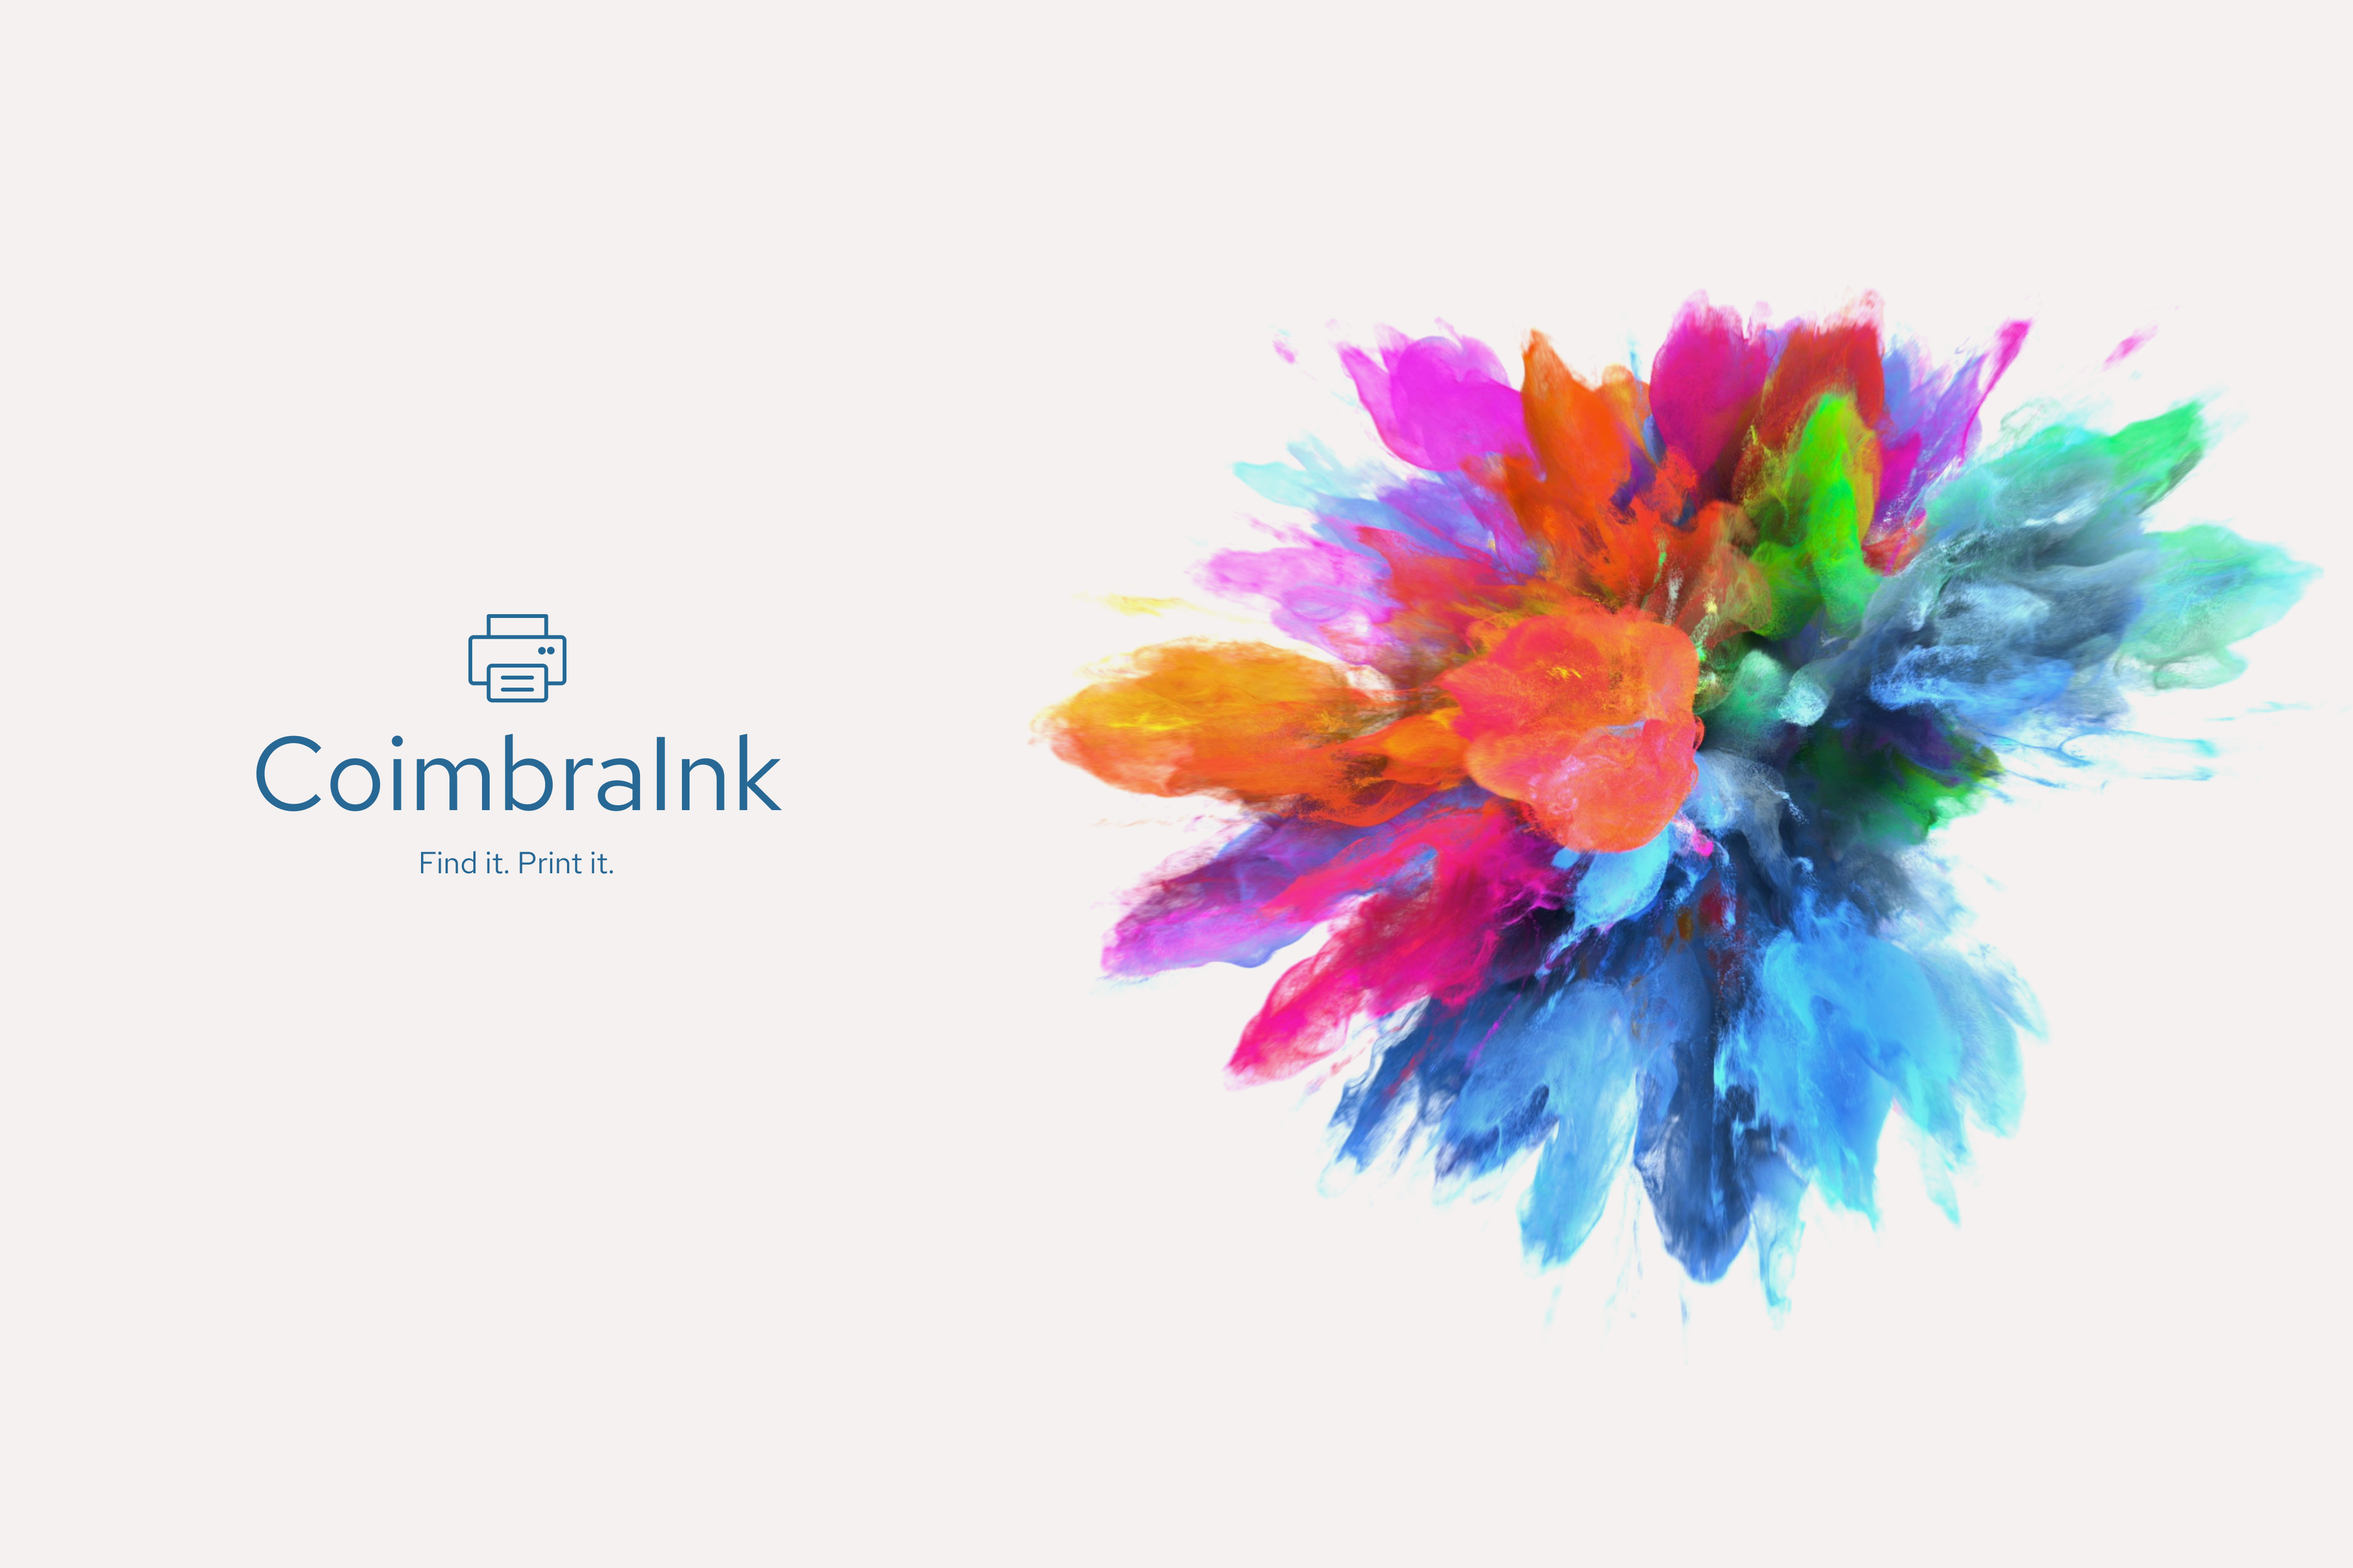
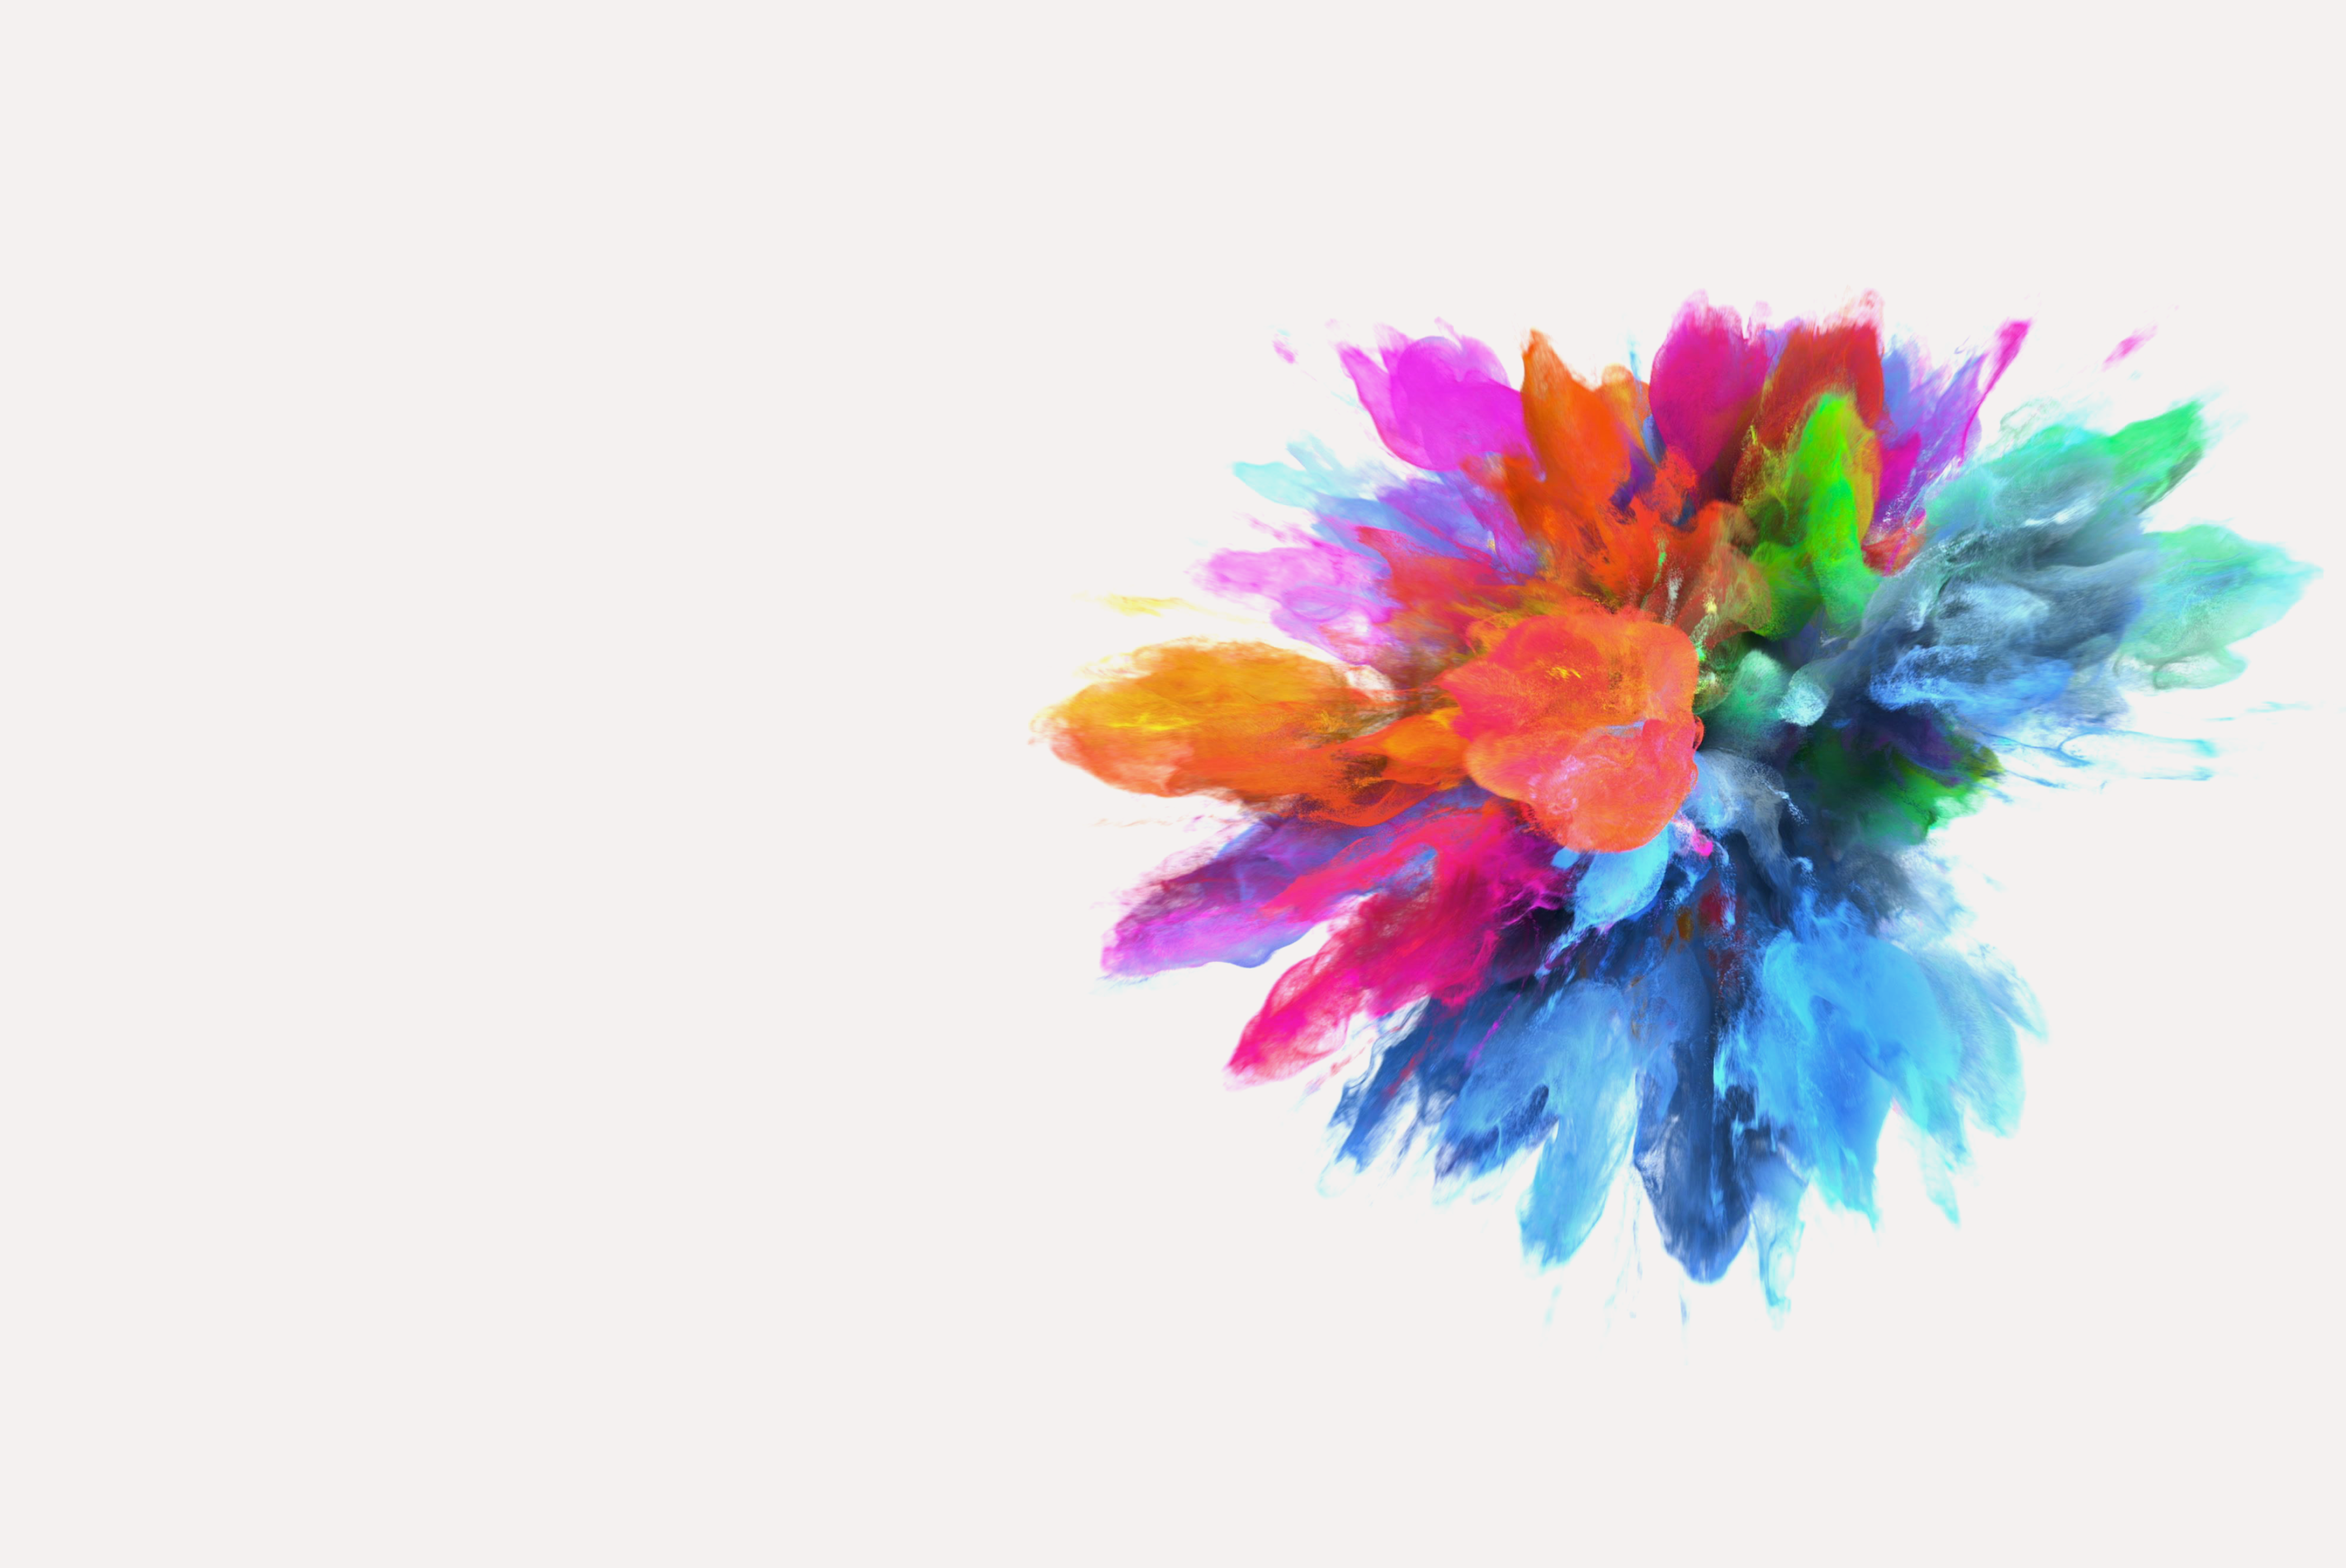
Updates: cenas responsivas

diff --git a/templates/base.html b/templates/base.html
@@ -34,8 +34,9 @@
         </div>
 
 
-        <div class="bg background1" style="display: flex; align-items: flex-end;">
-             <nav class="navbar navbar-light purple lighten-4 mb-4" style="display: flex; align-self: flex-start;">
+        <div class="bg background1">
+            <div class="row" style="display: flex; align-self: flex-start;">
+             <nav class="navbar navbar-light purple lighten-4 mb-4">
                   <!-- Navbar brand -->
                     <!-- Collapse button -->
                   <button class="navbar-toggler toggler-example purple darken-3" type="button" data-toggle="collapse"
@@ -59,12 +60,18 @@
 
                   <!-- Collapsible content -->
                   </div>
+                </nav>
+            </div>
 
+             <div class="row" style="height: calc(100vh/1.20)">
+                 <div class="col-md-6" style="display:flex; justify-content: center; align-items: center;">
+                     <img src="/static/imagens/logo.png" style="width: 300px;">
+                 </div>
+            </div>
 
-            </nav>
             <!--/.Navbar-->
-            <div class="row mb-3" style="margin-left:0px; width: 100vw; display:flex; justify-content: center;">
-                <img src="/static/imagens/setas.png" id="scroll-img" style="width: 5%; transform: rotate(180deg); cursor:pointer;">
+            <div class="row mb-3" style="margin-left:5px; width: 100vw; display:flex; justify-content: center;">
+                <img src="/static/imagens/setas.png" id="scroll-img" style="width: 70px; transform: rotate(180deg); cursor:pointer;">
             </div>
         </div>
         <div class="bg background2">

diff --git a/static/css/base.css b/static/css/base.css
@@ -23,9 +23,18 @@ html {
     background-image: url('../imagens/background.png');
 }
 
+@media only screen and (max-width: 767px) {
+  .background1 {
+    background-image: none;
+       background: #F4F1F0;
+    }
+}
+
 .background2{
 	background-color: white;
 }
+
+
 
 /*Google Map*/
 #map{
